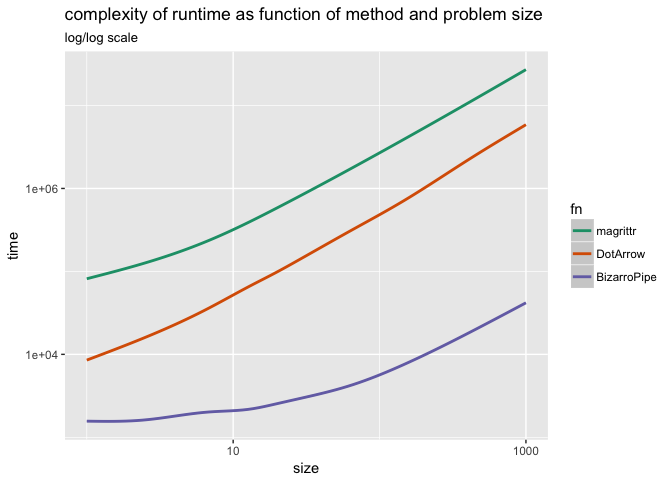
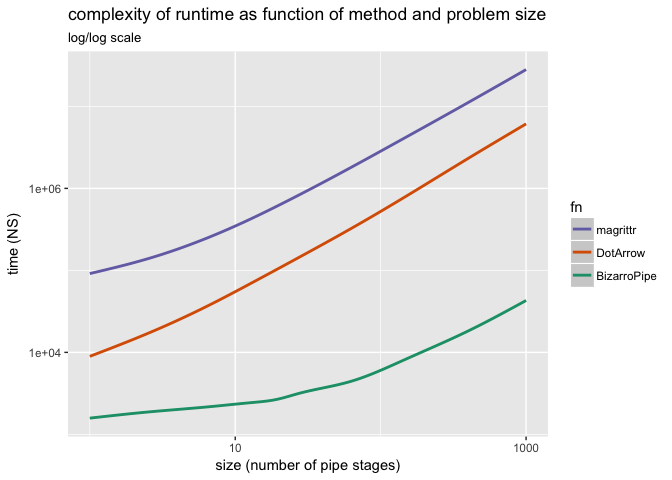
re-plot

diff --git a/extras/PipePerformance.md b/extras/PipePerformance.md
@@ -125,79 +125,79 @@ print(bm)
 
     ## Unit: nanoseconds
     ##                expr      min         lq         mean     median         uq
-    ##     BizarroPipe_1()      220     1475.0     2913.260     1723.0     1997.5
-    ##        DotArrow_1()     3395     6248.0    11846.277     7753.0    12011.5
-    ##        magrittr_1()    49822    59387.0    90991.149    72417.0   107088.0
-    ##     BizarroPipe_2()      291     1403.0     3307.005     1692.5     2057.5
-    ##        DotArrow_2()     6660    10675.5    16415.644    13002.5    17472.5
-    ##        magrittr_2()    73774    85035.5   122530.482   102031.0   142637.5
-    ##     BizarroPipe_5()      422     1729.0     5217.069     2032.0     2399.5
-    ##        DotArrow_5()    16359    23209.0    32260.117    25786.5    30868.0
-    ##        magrittr_5()   132876   154240.0   197617.217   176084.0   224851.5
-    ##    BizarroPipe_10()      586     1886.5     7490.310     2163.0     2471.5
-    ##       DotArrow_10()    34782    44524.5    59602.877    49459.0    57021.0
-    ##       magrittr_10()   240267   271197.5   338881.215   304444.5   355260.5
-    ##    BizarroPipe_15()      765     2081.0    13146.346     2384.5     2734.5
-    ##       DotArrow_15()    50439    65978.5    92628.905    72399.0    82964.5
-    ##       magrittr_15()   341735   384861.5   463293.882   420208.5   480203.0
-    ##    BizarroPipe_20()      928     2268.5    12824.599     2565.5     2962.5
-    ##       DotArrow_20()    69550    84877.0   115202.718    93325.0   104024.0
-    ##       magrittr_20()   453060   508771.5   633045.981   550328.0   633579.5
-    ##    BizarroPipe_25()     1117     2540.5    15645.421     2883.5     3399.0
-    ##       DotArrow_25()    86803   104958.5   149803.575   113546.5   128668.0
-    ##       magrittr_25()   547523   617842.5   756415.307   669203.0   755857.5
-    ##    BizarroPipe_50()     1987     3377.0    28218.553     3737.0     4296.5
-    ##       DotArrow_50()   174093   206088.5   363901.150   223747.0   254984.5
-    ##       magrittr_50()  1073495  1201968.5  1436508.111  1279257.5  1463380.0
-    ##   BizarroPipe_100()     3732     5190.0    72095.926     5588.5     6260.0
-    ##      DotArrow_100()   343713   407538.5   567502.520   438037.5   506514.0
-    ##      magrittr_100()  2118065  2369972.0  2819636.247  2492480.0  2855227.0
-    ##   BizarroPipe_200()     7222     9052.0   104549.203     9449.0    10213.5
-    ##      DotArrow_200()   687663   853362.5  1244634.735   908512.0  1064183.5
-    ##      magrittr_200()  4234719  4713119.0  5497701.624  4938846.5  5928159.5
-    ##   BizarroPipe_500()    17653    20584.5   286445.928    21233.0    22166.5
-    ##      DotArrow_500()  2140367  2413798.0  2877015.734  2542775.0  3207561.5
-    ##      magrittr_500() 10607697 11926663.5 13549359.779 12995600.0 14620547.0
-    ##  BizarroPipe_1000()    35137    39580.0   570353.346    40332.0    41738.5
-    ##     DotArrow_1000()  4564782  5062021.5  6053947.806  5275416.5  6852103.5
-    ##     magrittr_1000() 22163183 25100244.0 27392940.854 26890737.5 28307344.5
+    ##     BizarroPipe_1()      224     1374.0     3000.584     1582.0     1895.0
+    ##        DotArrow_1()     3717     6418.0    12062.863     8326.5    12500.0
+    ##        magrittr_1()    50312    65395.0   107375.008    85312.0   120950.0
+    ##     BizarroPipe_2()      285     1617.0     3828.481     1874.5     2237.5
+    ##        DotArrow_2()     7098    11138.0    17480.871    13395.0    18249.5
+    ##        magrittr_2()    75269    91045.5   137129.556   112958.0   157870.5
+    ##     BizarroPipe_5()      400     1855.5     5198.948     2110.0     2513.0
+    ##        DotArrow_5()    16747    23639.5    36028.055    27166.5    33076.5
+    ##        magrittr_5()   138650   163343.5   228081.179   189911.0   250294.0
+    ##    BizarroPipe_10()      605     2179.5     7753.477     2537.0     2980.0
+    ##       DotArrow_10()    34149    45100.5    66847.069    51079.0    59925.5
+    ##       magrittr_10()   244337   279283.0   374630.448   317948.5   393869.5
+    ##    BizarroPipe_15()      762     2071.5    11545.239     2352.0     2813.5
+    ##       DotArrow_15()    54016    67322.5   105121.946    74552.0    86306.0
+    ##       magrittr_15()   348138   395087.5   526553.973   437524.5   543987.0
+    ##    BizarroPipe_20()      971     2463.5    19952.843     2855.0     3418.5
+    ##       DotArrow_20()    71228    88482.0   124505.335    98250.5   112552.5
+    ##       magrittr_20()   451704   516358.5   668593.876   570338.0   696255.5
+    ##    BizarroPipe_25()     1107     2617.0    20045.347     2966.5     3488.5
+    ##       DotArrow_25()    89359   109514.5   159103.100   119995.0   139182.5
+    ##       magrittr_25()   556110   630239.5   818280.049   691886.0   857334.5
+    ##    BizarroPipe_50()     1967     3489.5    28566.306     3863.0     4419.5
+    ##       DotArrow_50()   181417   214834.5   304704.132   236130.0   288375.5
+    ##       magrittr_50()  1048641  1208136.5  1538654.395  1305545.0  1671243.5
+    ##   BizarroPipe_100()     3733     5468.0    71317.012     5870.0     6574.5
+    ##      DotArrow_100()   353504   430405.5   623184.370   470504.0   603389.0
+    ##      magrittr_100()  2113159  2367969.0  3053364.153  2530558.0  3352533.0
+    ##   BizarroPipe_200()     7218     9478.5   119341.102     9907.0    10630.5
+    ##      DotArrow_200()   741178   894144.5  1299342.444   963659.0  1264166.5
+    ##      magrittr_200()  4172799  4692202.5  5997901.289  5062331.0  6508388.5
+    ##   BizarroPipe_500()    17716    20660.5   273268.549    21273.0    22372.0
+    ##      DotArrow_500()  2182032  2429767.5  3146159.832  2615482.5  3465941.0
+    ##      magrittr_500() 10633947 11982111.0 14240211.168 13462193.0 15391922.0
+    ##  BizarroPipe_1000()    35192    39791.0   631318.523    40598.0    42161.0
+    ##     DotArrow_1000()  4595184  5073158.0  6281020.442  5472272.0  7202083.0
+    ##     magrittr_1000() 22044441 25621458.0 28611179.824 27223106.0 29519666.5
     ##        max neval
-    ##    1221518  1000
-    ##    1522716  1000
-    ##    1811425  1000
-    ##    1606155  1000
-    ##    2211588  1000
-    ##    2225075  1000
-    ##    3094747  1000
-    ##    4305413  1000
-    ##    4278804  1000
-    ##    5337788  1000
-    ##    6781066  1000
-    ##    7430848  1000
-    ##   10730168  1000
-    ##   13238880  1000
-    ##   10346453  1000
-    ##   10207998  1000
-    ##   15504194  1000
-    ##   13560922  1000
-    ##   12729939  1000
-    ##   20140134  1000
-    ##   16310270  1000
-    ##   24412219  1000
-    ##   57729821  1000
-    ##   34216322  1000
-    ##   66396660  1000
-    ##   68500501  1000
-    ##   66835519  1000
-    ##   94854702  1000
-    ##  155458168  1000
-    ##  141914024  1000
-    ##  264452670  1000
-    ##    8874836  1000
-    ##   68886883  1000
-    ##  528628812  1000
-    ##   63721323  1000
-    ##   85247581  1000
+    ##    1295491  1000
+    ##    2189031  1000
+    ##    5910495  1000
+    ##    1879219  1000
+    ##    2176748  1000
+    ##    2181043  1000
+    ##    3034347  1000
+    ##    3998917  1000
+    ##    5026379  1000
+    ##    5162521  1000
+    ##    7438299  1000
+    ##    7256077  1000
+    ##    9100085  1000
+    ##   17719805  1000
+    ##   13056462  1000
+    ##   17000750  1000
+    ##   13719427  1000
+    ##   13262876  1000
+    ##   16839046  1000
+    ##   16674835  1000
+    ##   19016158  1000
+    ##   24457359  1000
+    ##   36997513  1000
+    ##   34917205  1000
+    ##   65075865  1000
+    ##   68372797  1000
+    ##   69574299  1000
+    ##  108778228  1000
+    ##  142137236  1000
+    ##  144707759  1000
+    ##  250883136  1000
+    ##   59691751  1000
+    ##   87983616  1000
+    ##  588172371  1000
+    ##   15868854  1000
+    ##  100727045  1000
 
 ``` r
 autoplot(bm)
@@ -219,7 +219,9 @@ ggplot(d, aes(x=fn, y=time, color=fn)) +
   xlab("method") +
   ylab("time NS") +
   theme(legend.position = 'none') +
-  scale_color_brewer(palette = 'Dark2') +
+  scale_color_manual(values = c(magrittr='#7570b3',
+                                DotArrow='#d95f02',
+                                BizarroPipe='#1b9e77')) +
   ggtitle("distribution of runtime as function of method and problem size",
           subtitle = "log-time scale")
 ```
@@ -231,9 +233,13 @@ ggplot(d, aes(x=fn, y=time, color=fn)) +
 d$fn <- reorder(d$fn, -d$time)
 ggplot(d, aes(x=size, y=time, color=fn)) +
   geom_smooth() +
-  scale_y_log10() +
-  scale_x_log10() +
-  scale_color_brewer(palette = 'Dark2') +
+  scale_y_log10('time (NS)') +
+  scale_x_log10('size (number of pipe stages)') +
+  scale_color_manual(values = c(magrittr='#7570b3',
+                                DotArrow='#d95f02',
+                                BizarroPipe='#1b9e77')) +
+  xlab("method") +
+  ylab("time NS") +
   ggtitle("complexity of runtime as function of method and problem size",
           subtitle = "log/log scale")
 ```
@@ -284,15 +290,22 @@ dfits <- d %.>%
   select(.,  method, coef, Estimate, `Std. Error`,  `t value`, `Pr(>|t|)`)
 
 # "Intercept" is roughly start-up cost 
-# "coef_size" is slope or growth rate, 
-# "coef_sizesq" is square term in growth.
+# "size" is roughly the slope or growth rate of execution time
+# as a function of number of pipe stages.
 print(dfits)
 ```
 
-    ##        method        coef   Estimate  Std. Error      t value    Pr(>|t|)
-    ## 1 BizarroPipe (Intercept)  2403.4505 57536.06286   0.04177294 0.966680402
-    ## 2 BizarroPipe        size   567.0983   174.54682   3.24897529 0.001161403
-    ## 3    DotArrow (Intercept)  1623.8450 19879.91543   0.08168269 0.934900405
-    ## 4    DotArrow        size  5998.5871    60.30959  99.46324528 0.000000000
-    ## 5    magrittr (Intercept) 61600.1986 24491.38908   2.51517782 0.011910196
-    ## 6    magrittr        size 27261.2653    74.29939 366.91104062 0.000000000
+    ##        method        coef    Estimate  Std. Error      t value
+    ## 1 BizarroPipe (Intercept)   1080.5444 62278.56097   0.01735018
+    ## 2 BizarroPipe        size    613.1587   188.93411   3.24535701
+    ## 3    DotArrow (Intercept)   5446.8735 17664.54518   0.30835063
+    ## 4    DotArrow        size   6281.2230    53.58883 117.21142408
+    ## 5    magrittr (Intercept) 115736.2879 29700.14544   3.89682563
+    ## 6    magrittr        size  28481.9084    90.10116 316.11033776
+    ##       Pr(>|t|)
+    ## 1 9.861575e-01
+    ## 2 1.176250e-03
+    ## 3 7.578209e-01
+    ## 4 0.000000e+00
+    ## 5 9.799139e-05
+    ## 6 0.000000e+00
